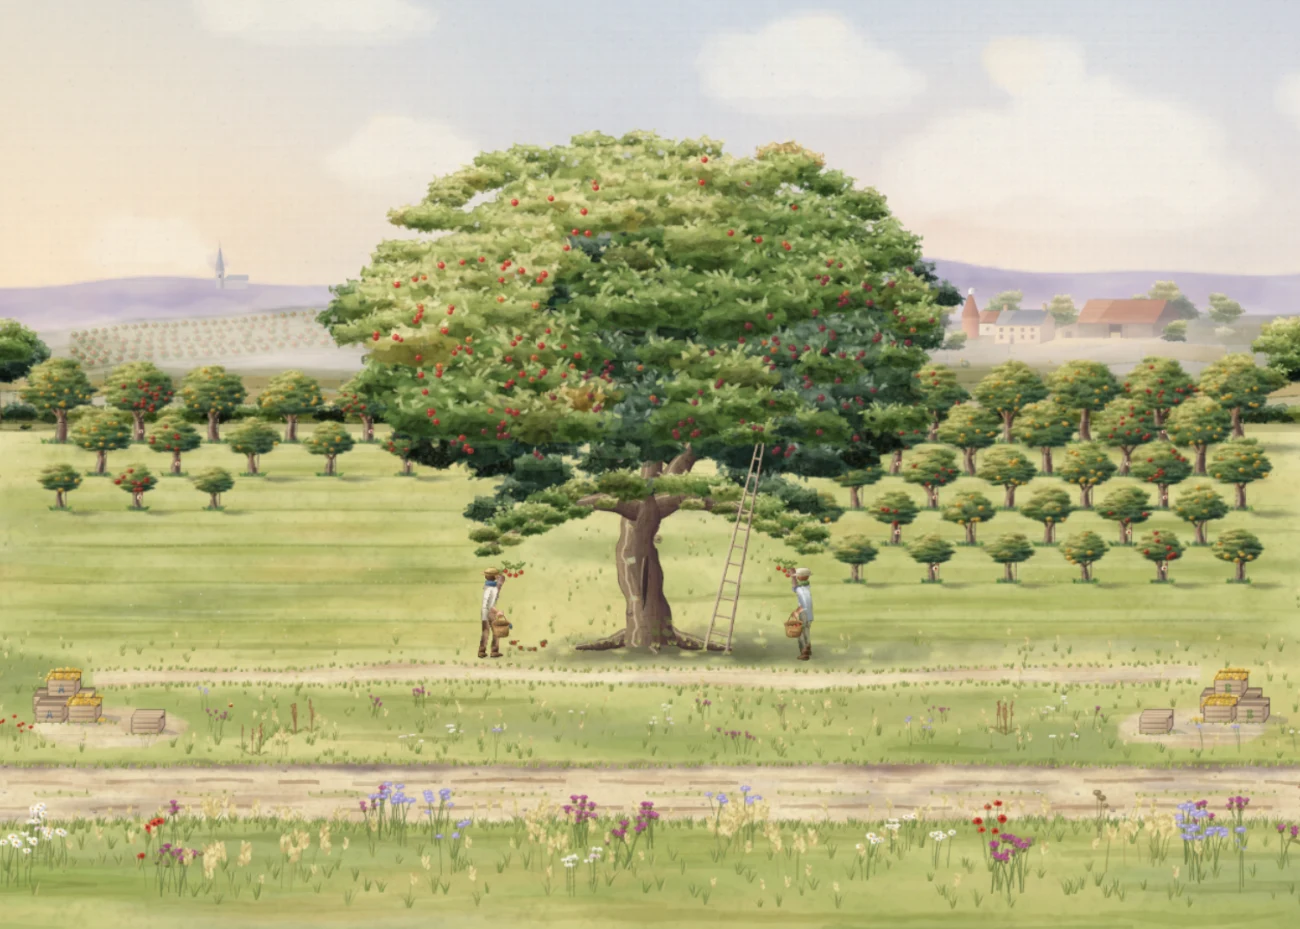
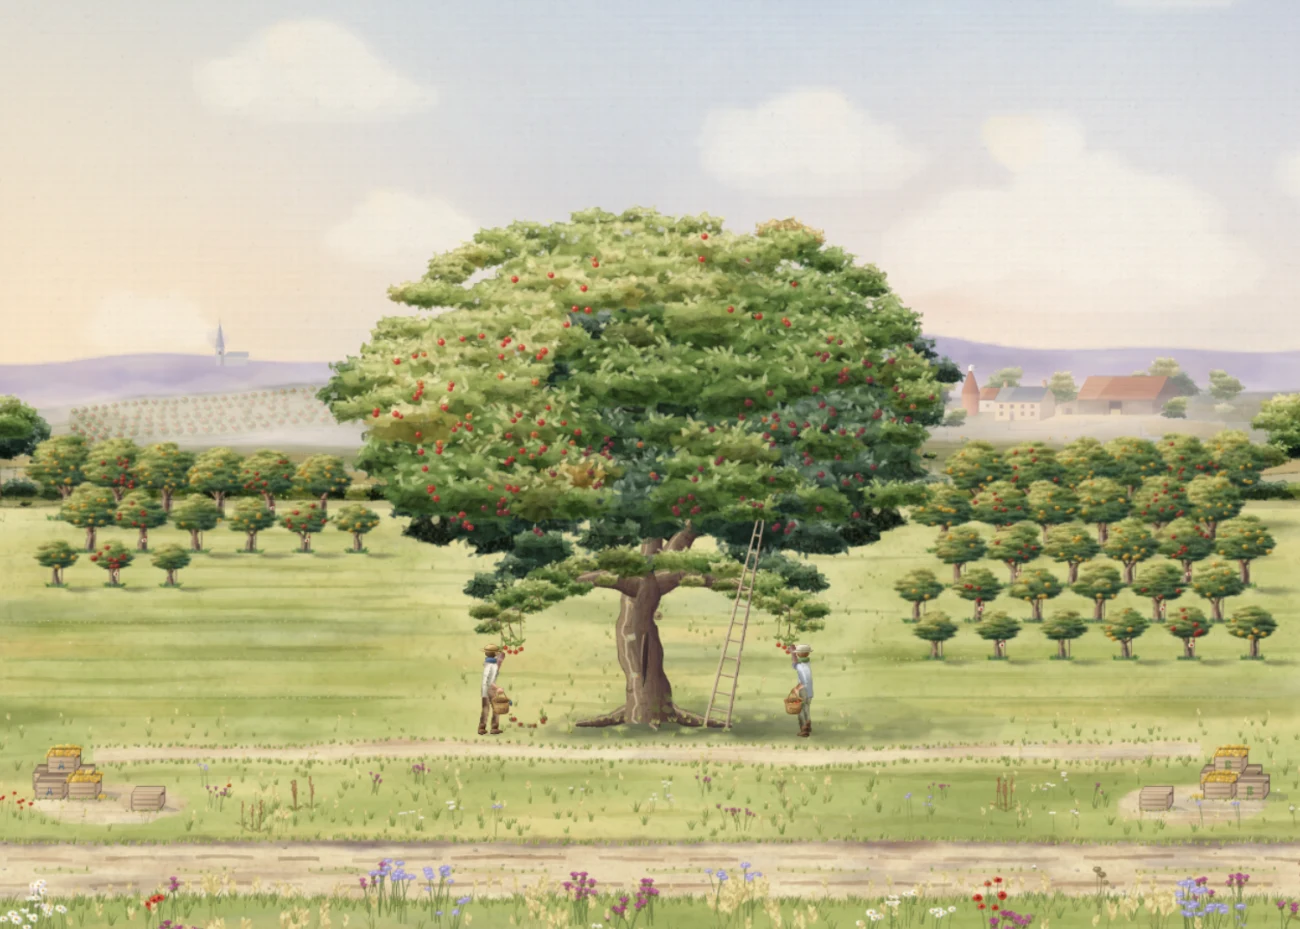
Low-Hanging Fruit: every tipping stays in view, and the low fruit hangs on twigs from the bough
The farmer's crown hid a picker tipping at the inner two slots of the back rows (up to 98% covered). The slots are
now a foreshortened lattice: each row is scaled toward x 130 by depthScale, as the trees themselves are, so the plot
narrows toward the back and its inner edge steps out from under the crown; odd rows stay half a gap inward, so the
quincunx holds. The picker stands on the outer side of the slot it tips at. The mown plot follows the slant.

The red apples on the low boughs hung on 3-unit stalks some 15 to 30 units below the bough's leaf, with nothing
between. Each now hangs on a pendant twig drawn from the bough (every second one forking from its neighbour, so the
fruit hangs in twos), with a leaf or two along it. The twig is drawn down by its apple and eases back up over a
moment when the apple is picked or falls; the hand's reach follows the same point. The landing preview is re-baked.

diff --git a/src/orchard/scene/pickerFruit.ts b/src/orchard/scene/pickerFruit.ts
@@ -105,6 +105,29 @@ interface Hanging {
   /** growth per second, and whether it grows on the crew's clock (a round's ripening) or the wall clock */
   rate: number;
   crew: boolean;
+  /** how far the twig is drawn down (0 a short shoot hanging easy … 1 down to the fruit): it follows the fruit
+   *  over a moment, so a twig whose apple is picked or falls springs back up rather than vanishing */
+  sag: number;
+}
+
+/** a pendant twig with no fruit on it hangs this far (world units at its depth) below the bough */
+const TWIG_EASY = 7;
+/** how quickly a twig follows its fruit, down when one sets and back up when it goes (s) */
+const TWIG_TAU = 0.16;
+const BARK = '96,72,46';
+const BARK_LIT = '201,165,122';
+
+/** the twig's end (where the fruit's stalk meets it) at sag s, as a screen point (x, screen y) */
+function twigEnd(p: HangPlace, s: number): { x: number; y: number; drop: number } {
+  const k = depthScale(p.at.y);
+  const sx0 = p.stem.x;
+  const sy0 = p.stem.y - p.stem.h;
+  const sx1 = p.at.x + p.sway * 0.25;
+  const sy1 = p.at.y - p.at.h - APPLE_R * k - 3.4 * k;
+  const easy = Math.min(TWIG_EASY * k, sy1 - sy0);
+  const ex = sx0 + (sx1 - sx0) * (0.35 + 0.65 * s);
+  const ey = sy0 + easy + (sy1 - sy0 - easy) * s;
+  return { x: ex, y: ey, drop: sy1 - ey };
 }
 
 export class LowFruit {
@@ -115,7 +138,7 @@ export class LowFruit {
   constructor(id: PickerId) {
     this.id = id;
     this.places = hangPlaces(id);
-    for (let i = 0; i < NPOS; i++) this.hang.push({ grow: 0, rate: 0, crew: true });
+    for (let i = 0; i < NPOS; i++) this.hang.push({ grow: 0, rate: 0, crew: true, sag: 0 });
   }
 
   /** an apple hangs at place i (growing or grown) */
@@ -150,18 +173,94 @@ export class LowFruit {
       const h = this.hang[i]!;
       h.grow = ripe(i) ? 1 : 0;
       h.rate = 0;
+      h.sag = h.grow;
     }
   }
 
   update(crewDt: number, wallDt: number): void {
+    const follow = 1 - Math.exp(-Math.max(0, wallDt) / TWIG_TAU);
     for (const h of this.hang) {
-      if (h.rate <= 0) continue;
-      h.grow = Math.min(1, h.grow + h.rate * (h.crew ? crewDt : wallDt));
-      if (h.grow >= 1) h.rate = 0;
+      if (h.rate > 0) {
+        h.grow = Math.min(1, h.grow + h.rate * (h.crew ? crewDt : wallDt));
+        if (h.grow >= 1) h.rate = 0;
+      }
+      const want = h.grow > 0 || h.rate > 0 ? 1 : 0;
+      h.sag += (want - h.sag) * follow;
+      if (Math.abs(want - h.sag) < 1e-3) h.sag = want;
     }
   }
 
-  /** the hanging apples (each on a short stalk with a leaf or two) as one item at the bough's depth (in front of the branch) */
+  /** a twig's curve now: from where it leaves the wood (the bough, or for every second place its neighbour's twig,
+   *  so the fruit hangs in twos on forked spurs) down to its end */
+  private twigCurve(i: number): { x0: number; y0: number; cx: number; cy: number; e: { x: number; y: number } } {
+    const p = this.places[i]!;
+    const h = this.hang[i]!;
+    const k = depthScale(p.at.y);
+    let x0 = p.stem.x;
+    // (it starts a little up inside the bough's leaf, so it grows out of the wood rather than off its edge)
+    let y0 = p.stem.y - p.stem.h - 1.2 * k;
+    if (i % 2 === 1) {
+      const q = this.twigCurve(i - 1);
+      const t = 0.42;
+      x0 = (1 - t) * (1 - t) * q.x0 + 2 * (1 - t) * t * q.cx + t * t * q.e.x;
+      y0 = (1 - t) * (1 - t) * q.y0 + 2 * (1 - t) * t * q.cy + t * t * q.e.y;
+    }
+    const e = twigEnd(p, h.sag);
+    // bowed a little to one side by its sway, and less as the fruit pulls it straight
+    const cx = (x0 + e.x) / 2 + p.sway * (1.1 - 0.5 * h.sag);
+    const cy = (y0 + e.y) / 2;
+    return { x0, y0, cx, cy, e };
+  }
+
+  /** one pendant twig down to where its fruit's stalk meets it, with a leaf or two along it */
+  private drawTwig(ctx: CanvasRenderingContext2D, i: number): void {
+    const p = this.places[i]!;
+    const k = depthScale(p.at.y) * (i % 2 ? 0.8 : 1);
+    const { x0, y0, cx, cy, e } = this.twigCurve(i);
+    const line = (w: number, style: string, dx: number) => {
+      ctx.strokeStyle = style;
+      ctx.lineWidth = w * k;
+      ctx.beginPath();
+      ctx.moveTo(x0 + dx, y0);
+      ctx.quadraticCurveTo(cx + dx, cy, e.x + dx, e.y);
+      ctx.stroke();
+    };
+    // the wood tapers: a thicker upper half, then the fine end; a lit edge toward the sun (upper left)
+    ctx.save();
+    ctx.lineCap = 'round';
+    line(0.5, `rgba(${BARK},0.82)`, 0);
+    ctx.save();
+    ctx.beginPath();
+    ctx.rect(Math.min(x0, e.x) - 4 * k, y0 - 2 * k, Math.abs(e.x - x0) + 8 * k, (cy - y0) + 2 * k);
+    ctx.clip();
+    line(0.8, `rgba(${BARK},0.78)`, 0);
+    ctx.restore();
+    line(0.18, `rgba(${BARK_LIT},0.6)`, -0.2 * k);
+    ctx.restore();
+    // a leaf or two along it, the upper one lighter (nearer the light), turned out and down from the twig
+    const at = (t: number) => ({
+      x: (1 - t) * (1 - t) * x0 + 2 * (1 - t) * t * cx + t * t * e.x,
+      y: (1 - t) * (1 - t) * y0 + 2 * (1 - t) * t * cy + t * t * e.y,
+    });
+    const leaves = i % 2 ? [0.55] : i % 4 === 0 ? [0.3, 0.68] : [0.36];
+    for (let j = 0; j < leaves.length; j++) {
+      const q = at(leaves[j]!);
+      const side = (i + j) % 2 ? 1 : -1;
+      const ang = Math.PI / 2 - side * (0.95 + 0.2 * j);
+      ctx.fillStyle = j === 0 ? 'rgba(146,156,76,0.88)' : 'rgba(104,126,62,0.88)';
+      ctx.beginPath();
+      ctx.ellipse(q.x + Math.cos(ang) * 1.9 * k, q.y + Math.sin(ang) * 1.9 * k, 2.4 * k, 1 * k, ang, 0, Math.PI * 2);
+      ctx.fill();
+      ctx.strokeStyle = 'rgba(64,74,36,0.35)';
+      ctx.lineWidth = 0.14 * k;
+      ctx.beginPath();
+      ctx.moveTo(q.x, q.y);
+      ctx.lineTo(q.x + Math.cos(ang) * 3.8 * k, q.y + Math.sin(ang) * 3.8 * k);
+      ctx.stroke();
+    }
+  }
+
+  /** the hanging apples, each on its pendant twig from the bough, as one item at the bough's depth (in front of the branch) */
   item(spr: () => AppleSprites | null): Item {
     return {
       // (just in front of the tree's own sprays of leaf along the bough, BOUGH.y + 0.5)
@@ -172,14 +271,18 @@ export class LowFruit {
           const p = this.places[i]!;
           const k = depthScale(p.at.y);
           const g = this.hang[i]!.grow;
+          // the twig is the tree's: it hangs there whether or not it bears an apple just now
+          this.drawTwig(ctx, i);
           // swelling: small and green, then full and red, hanging from its stalk
           const size = 0.35 + 0.65 * sstep(g / 0.8);
           const r = APPLE_R * size * k;
           if (g <= 0) continue;
-          const top = p.at.y - p.at.h - APPLE_R * k;
-          // a short stalk up into a little leafy spur (the shoots and leaf above are the tree's own)
-          const sx = p.at.x + p.sway * 0.25;
-          const sy = top - 3.4 * k;
+          // the stalk's top is the twig's end; while the twig is still settling the apple rides up with it
+          const e = twigEnd(p, this.hang[i]!.sag);
+          const top = p.at.y - p.at.h - APPLE_R * k - e.drop;
+          // a short stalk up into a little leafy spur where it meets the twig
+          const sx = e.x;
+          const sy = e.y;
           // (the spur fades in as the fruit sets, and goes with it)
           ctx.globalAlpha = sstep(g / 0.3);
           for (let j = 0; j < 3; j++) {
@@ -192,13 +295,14 @@ export class LowFruit {
           ctx.strokeStyle = 'rgba(96,76,44,0.85)';
           ctx.lineWidth = 0.32 * k;
           ctx.beginPath();
+          const ax = p.at.x + (e.x - (p.at.x + p.sway * 0.25));
           ctx.moveTo(sx, sy);
-          ctx.quadraticCurveTo(p.at.x + p.sway * 0.1, top - 1.4 * k, p.at.x, top + 0.4 * k);
+          ctx.quadraticCurveTo(ax + p.sway * 0.1, top - 1.4 * k, ax, top + 0.4 * k);
           ctx.stroke();
           ctx.globalAlpha = 1;
           if (!s) continue;
           const st = Math.min(RIPE - 1, Math.floor(clamp((g - 0.15) / 0.8, 0, 1) * (RIPE - 1) + 0.5));
-          drawApple(ctx, s.ripe[st]!, p.at.x, top + r, r);
+          drawApple(ctx, s.ripe[st]!, ax, top + r, r);
         }
       },
     };
@@ -210,7 +314,9 @@ export class LowFruit {
     const g = this.hang[i]!.grow;
     const size = 0.35 + 0.65 * sstep(g / 0.8);
     const k = depthScale(p.at.y);
-    return { x: p.at.x, y: p.at.y, h: p.at.h + APPLE_R * k * (1 - size) };
+    // (raised by however far its twig has still to come down: the same place the apple is drawn)
+    const e = twigEnd(p, this.hang[i]!.sag);
+    return { x: p.at.x + (e.x - (p.at.x + p.sway * 0.25)), y: p.at.y, h: p.at.h + APPLE_R * k * (1 - size) + e.drop };
   }
 }
 

diff --git a/src/orchard/scene/ground.ts b/src/orchard/scene/ground.ts
@@ -26,12 +26,29 @@ export interface GroundView {
 /** the farm's boundary hedge behind the orchards: the meadow starts here */
 export const HEDGE_Y = 326;
 
-/** each picker's plot of mown grass (world rect) */
+/** each picker's plot of mown grass: its bounding world rect (the plot itself narrows toward the back, plotSpan) */
 export const PLOT: Record<PickerId, { x0: number; x1: number; y0: number; y1: number }> = (() => {
   const xs = SLOTS.a.map((p) => p.x);
   const a = { x0: Math.min(...xs) - 38, x1: Math.max(...xs) + 24, y0: ROW_Y[0] - 10, y1: ROW_Y[ROW_Y.length - 1] + 16 };
   return { a, b: { x0: WORLD.width - a.x1, x1: WORLD.width - a.x0, y0: a.y0, y1: a.y1 } };
 })();
+
+/** A's plot edges at the back (the two back rows) and the front (the two front rows): the slots are foreshortened
+ *  toward the back, so the plot is a trapezoid whose inner edge steps out from under the farmer's crown */
+const PLOT_EDGES = (() => {
+  const n = SLOTS.a.length;
+  const back = SLOTS.a.slice(0, 12).map((p) => p.x);
+  const front = SLOTS.a.slice(n - 12).map((p) => p.x);
+  return { back: { x0: Math.min(...back) - 38, x1: Math.max(...back) + 24 }, front: { x0: Math.min(...front) - 38, x1: Math.max(...front) + 24 } };
+})();
+
+/** the plot's x extent at depth y */
+export function plotSpan(id: PickerId, y: number): { x0: number; x1: number } {
+  const t = Math.min(1, Math.max(0, (y - ROW_Y[0]) / (ROW_Y[ROW_Y.length - 1] - ROW_Y[0])));
+  const x0 = PLOT_EDGES.back.x0 + (PLOT_EDGES.front.x0 - PLOT_EDGES.back.x0) * t;
+  const x1 = PLOT_EDGES.back.x1 + (PLOT_EDGES.front.x1 - PLOT_EDGES.back.x1) * t;
+  return id === 'a' ? { x0, x1 } : { x0: WORLD.width - x1, x1: WORLD.width - x0 };
+}
 
 /** the worn path's centre line (it wanders a little) and its half width */
 export const pathY = (x: number): number => (PATH.y0 + PATH.y1) / 2 + 2.2 * Math.sin(x / 83 + 0.6) + 1.2 * Math.sin(x / 31);
@@ -58,7 +75,8 @@ function inPlot(x: number, y: number, pad = 0): PickerId | null {
   const m = (edgeNoise(x * 0.045, y * 0.06) - 0.5) * 30;
   for (const id of PICKERS) {
     const P = PLOT[id];
-    if (x > P.x0 - pad + m && x < P.x1 + pad - m && y > P.y0 - pad + m * 0.35 && y < P.y1 + pad - m * 0.35) return id;
+    const S = plotSpan(id, y);
+    if (x > S.x0 - pad + m && x < S.x1 + pad - m && y > P.y0 - pad + m * 0.35 && y < P.y1 + pad - m * 0.35) return id;
   }
   return null;
 }
@@ -245,8 +263,9 @@ export function paintPlots(ctx: CanvasRenderingContext2D, rnd: Rand): void {
     for (let y = P.y0 + 2, k = 0; y < P.y1; k++) {
       const h = 4.5 + (y - P.y0) * 0.05;
       const pts: Pt[] = [];
-      const xa = P.x0 + rnd.range(-6, 22);
-      const xb = P.x1 - rnd.range(-6, 22);
+      const S = plotSpan(id, y);
+      const xa = S.x0 + rnd.range(-6, 22);
+      const xb = S.x1 - rnd.range(-6, 22);
       for (let x = xa; x <= xb; x += 12) pts.push([x, y + h / 2 + Math.sin(x / 47 + k) * 0.5]);
       const pale = k % 2 === 0;
       ctx.globalCompositeOperation = pale ? 'source-over' : 'multiply';
@@ -257,7 +276,8 @@ export function paintPlots(ctx: CanvasRenderingContext2D, rnd: Rand): void {
     // the rows of slots: a faint line of grass left a little longer where the trees will stand
     for (const ry of ROW_Y) {
       const pts: Pt[] = [];
-      for (let x = P.x0 + 4; x <= P.x1 - 4; x += 10) pts.push([x, ry + Math.sin(x / 33 + ry) * 0.4]);
+      const S = plotSpan(id, ry);
+      for (let x = S.x0 + 4; x <= S.x1 - 4; x += 10) pts.push([x, ry + Math.sin(x / 33 + ry) * 0.4]);
       const k = 0.6 + (ry - HEDGE_Y) / 300;
       ctx.globalCompositeOperation = 'multiply';
       brushBand(ctx, pts, (t) => 2.2 * k * fade(t), '#8E9E58', 0.14, rnd, { layers: 2, bristles: 3, bristleAlpha: 0.1, amp: 0.03 });

diff --git a/src/orchard/scene/geom.ts b/src/orchard/scene/geom.ts
@@ -71,10 +71,17 @@ export const ROWS = 6;
 export const COLS = 6;
 /** the depth of each row of slots, back (first planted) to front */
 export const ROW_Y = [344, 368, 393, 419, 446, 474] as const;
-/** the slots' x on A's side, outer to inner (odd rows are set half a gap inward, in quincunx, as orchards are
- *  planted: each crown then stands in the gap between the two in front of it, never stacked on one) */
-const COL_X = [70, 126, 182, 238, 294, 350] as const;
-const STAGGER = 28;
+/**
+ * The slots' lattice on A's side, as laid out in the front row: the outer end, the gap between trees, and odd rows set
+ * half a gap inward (in quincunx, as orchards are planted: each crown stands in the gap between the two in front of
+ * it, never stacked on one). Rows farther back are foreshortened by depthScale toward LATTICE.vx, as the trees
+ * themselves are, so the plot narrows toward the back and its inner edge steps out from under the farmer's crown: a
+ * picker tipping at any slot, even the innermost of the back row, stays in view below the old tree's leaf. (The
+ * crown's lower edge, in the band a standing picker fills, reaches out to about x 281 at the back row, 299 and 312 at
+ * the next two, and 363 at the front three, where the low bough's leaf hangs.)
+ */
+const LATTICE = { outer: 56, gap: 49, vx: 130 } as const;
+const FRONT_DS = depthScale(ROW_Y[ROWS - 1]);
 
 /**
  * Every slot of each orchard in planting order: slot k is row ⌊k / COLS⌋ (from the back), column k mod COLS (from
@@ -83,7 +90,13 @@ const STAGGER = 28;
  */
 export const SLOTS: Record<PickerId, Pt[]> = (() => {
   const a: Pt[] = [];
-  for (let r = 0; r < ROWS; r++) for (let c = 0; c < COLS; c++) a.push({ x: COL_X[c] + (r % 2 ? STAGGER : 0), y: ROW_Y[r] });
+  for (let r = 0; r < ROWS; r++) {
+    const k = depthScale(ROW_Y[r]) / FRONT_DS;
+    for (let c = 0; c < COLS; c++) {
+      const x = LATTICE.outer + (r % 2 ? LATTICE.gap / 2 : 0) + c * LATTICE.gap;
+      a.push({ x: LATTICE.vx + (x - LATTICE.vx) * k, y: ROW_Y[r] });
+    }
+  }
   return { a, b: a.map(mirror) };
 })();
 

diff --git a/src/orchard/scene/picker.ts b/src/orchard/scene/picker.ts
@@ -445,8 +445,10 @@ class PickerImpl implements Picker {
   }
   private slotStand(): { x: number; y: number; yaw: number } {
     const s = this.slotPt();
-    // beside it on the inner side (nothing is planted there yet), a little in front: the basket tips out to the side
-    const x = s.x + this.dirIn * 12;
+    // beside it on the outer side, a little in front, facing in: the basket tips out to the side at its foot, and
+    // the picker stays clear of the farmer's crown even at the innermost slots (the outer neighbour, planted
+    // earlier, stands a whole gap away)
+    const x = s.x - this.dirIn * 12;
     const y = s.y + 5;
     return { x, y, yaw: Math.atan2((s.y + 1 - y) / KAPPA, s.x - x) };
   }
